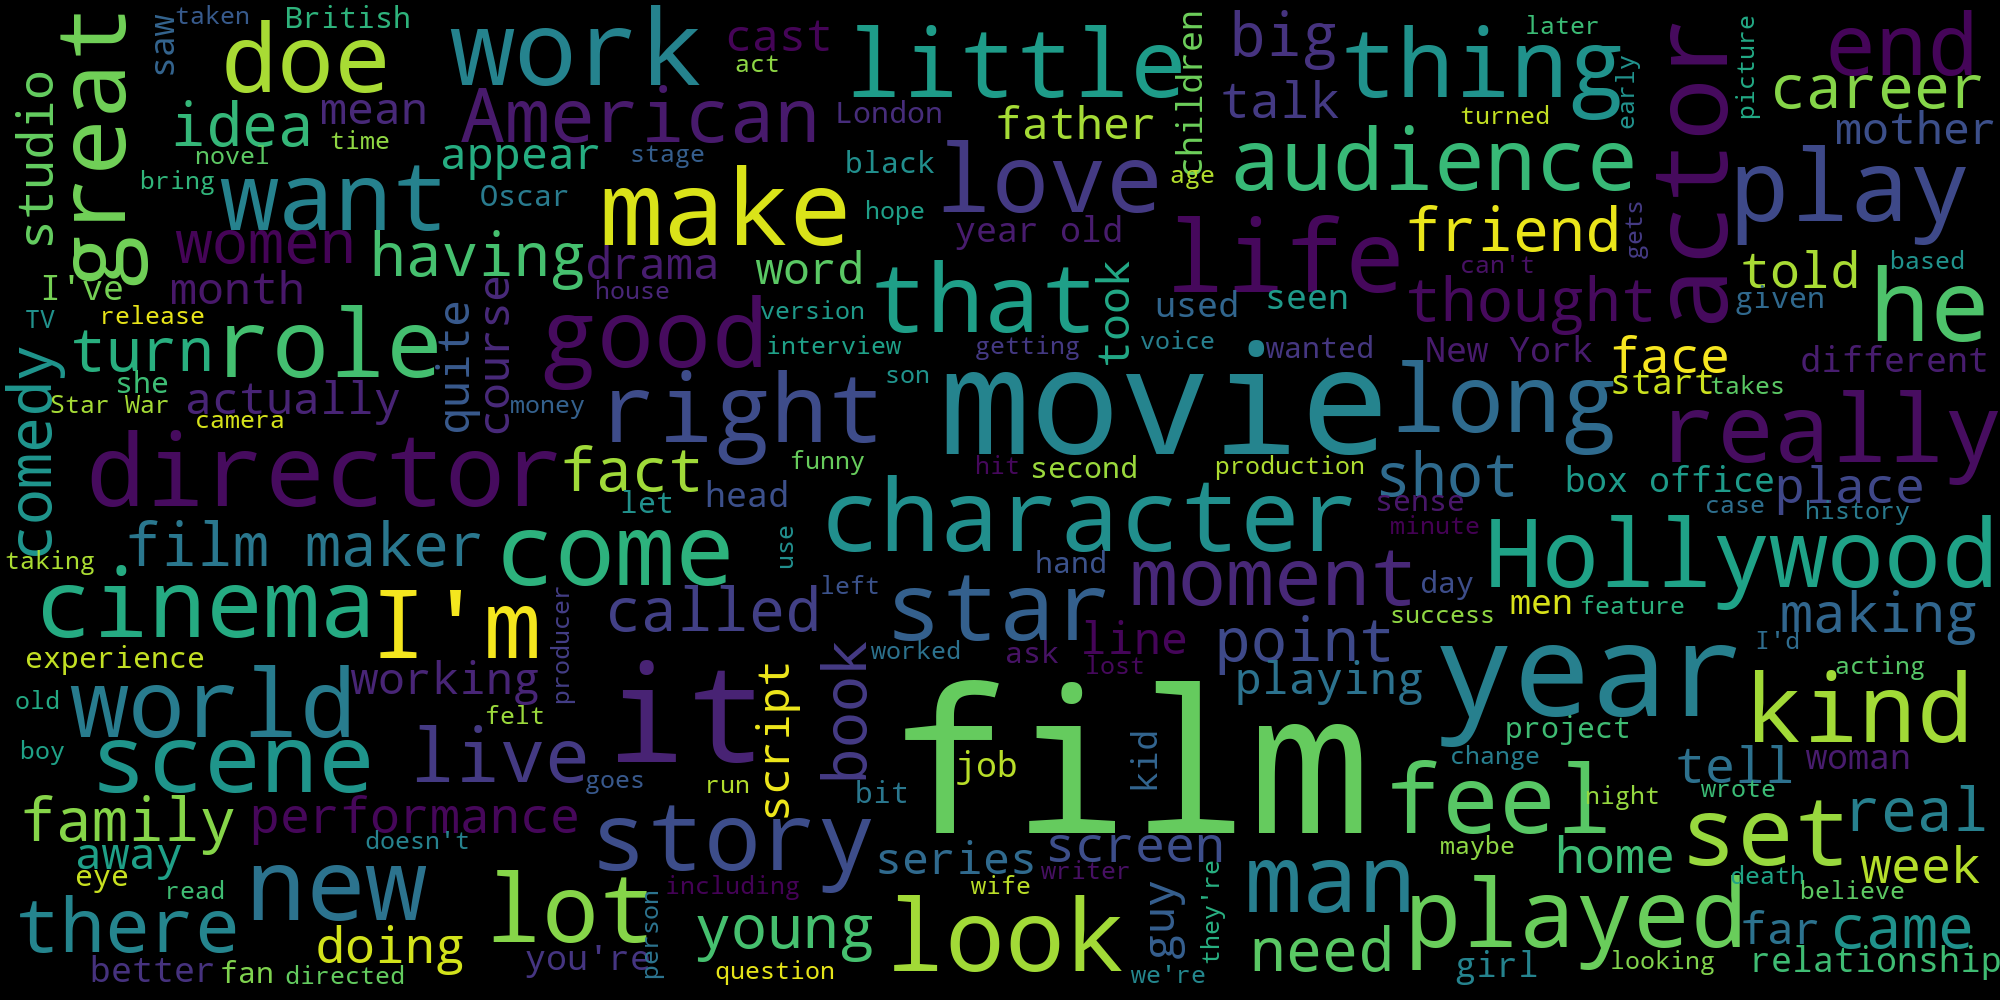
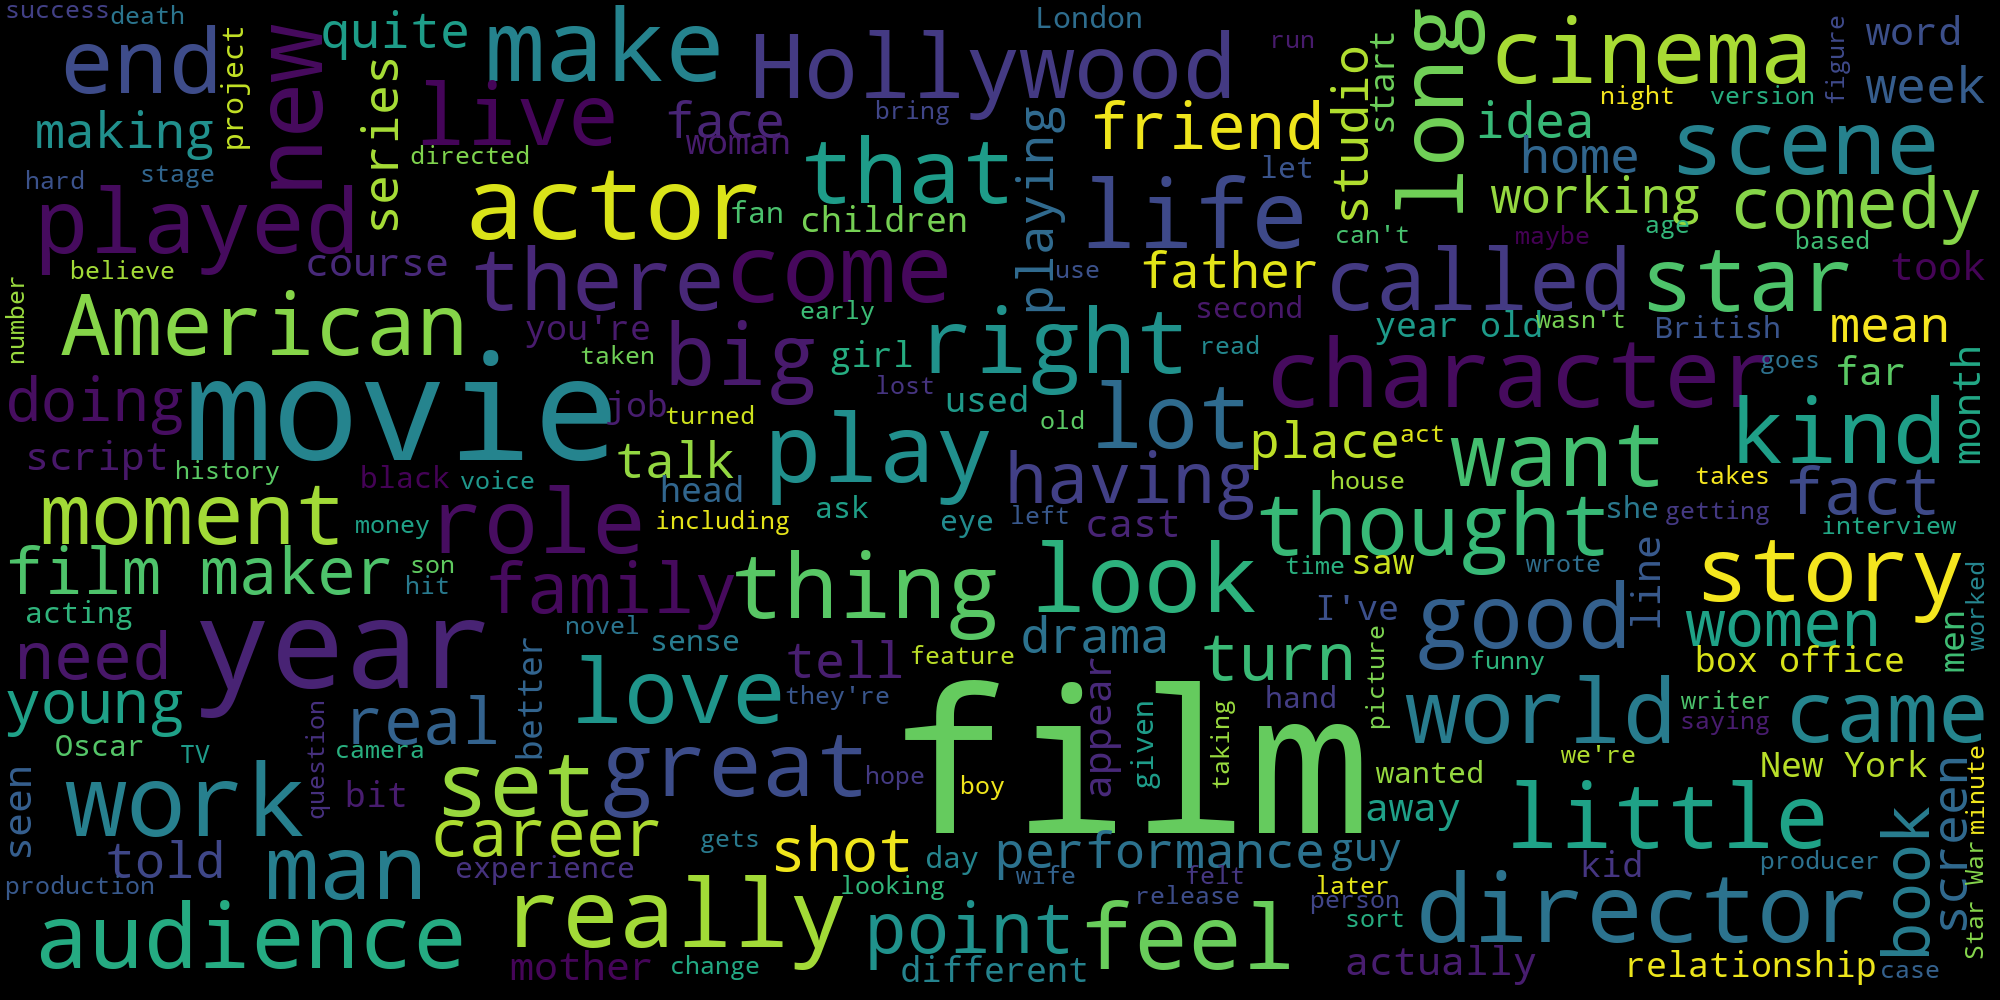
- Fix an issue, where the images produced by "myWordcloud()" where stored in the wrong directory. - Add/optimize stopWords. - Add the ability to run & print stopWords directly.

diff --git a/supportFuncs/stopWords.py b/supportFuncs/stopWords.py
@@ -6,10 +6,12 @@ initial_stop_words = set(ENGLISH_STOP_WORDS)
 
 def add_and_return_stop_words():
     initial_stop_words.add('said')
-    initial_stop_words.add('he')
     initial_stop_words.add('He')
-    initial_stop_words.add('it')
+    initial_stop_words.add("He's")
+    initial_stop_words.add("he's")
     initial_stop_words.add('It')
+    initial_stop_words.add("It's")
+    initial_stop_words.add("it's")
     initial_stop_words.add('got')
     initial_stop_words.add("don't")
     initial_stop_words.add('like')
@@ -30,9 +32,18 @@ def add_and_return_stop_words():
     initial_stop_words.add('time')
     initial_stop_words.add('people')
     initial_stop_words.add('way')
+    initial_stop_words.add("I'm")
+    initial_stop_words.add("I'd")
+    initial_stop_words.add('does')
+    initial_stop_words.add("doesn't")
     # TODO - Add more stopWords..
     return initial_stop_words
 
 
 def get_stop_words():
     return add_and_return_stop_words()
+
+
+# Run and print stopWords directly:
+if __name__ == '__main__':
+    print get_stop_words()

diff --git a/myWordcloud.py b/myWordcloud.py
@@ -13,14 +13,14 @@ def show_wordcloud(stop_words, data, title=None):
         max_font_size=40,
         scale=5,
         random_state=1
-    ).generate(str(data)).to_file("Resources/csv/" + title + ".png")
+    ).generate(str(data)).to_file("Resources/img/" + title + ".png")
 
 
 def my_wordcloud(stop_words):
 
     print 'Running myWordcloud...\n'
 
-    #print 'StopWords ', stop_words
+    # print 'StopWords ', stop_words
 
     businessStr = ''
     politicsStr = ''
